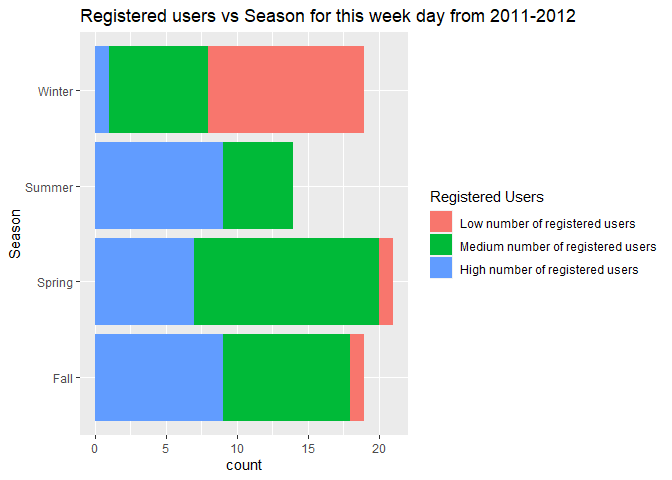
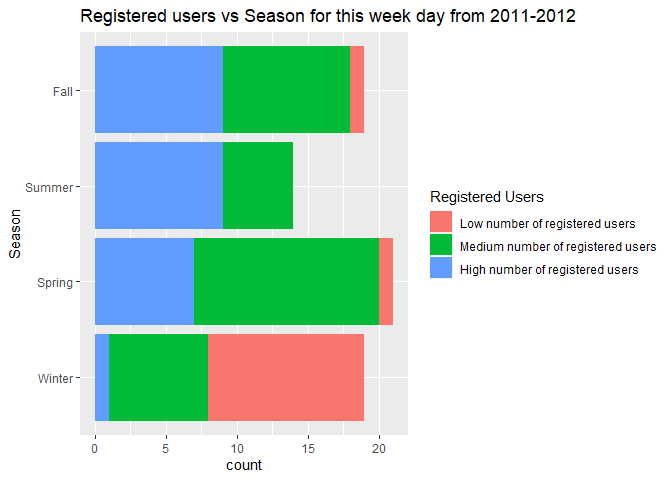
commit to pull main version

diff --git a/Monday.md b/Monday.md
@@ -2,21 +2,25 @@ Monday Analysis
 ================
 7/4/2021
 
-  - [Packages required to load and analyse the
+-   [Packages required to load and analyse the
     data](#packages-required-to-load-and-analyse-the-data)
-  - [MON Report](#mon-report)
-      - [Introduction](#introduction)
-      - [Data preparation](#data-preparation)
-      - [Train/Test split](#traintest-split)
-      - [Data Summarizations and
+-   [MON Report](#mon-report)
+    -   [Introduction](#introduction)
+    -   [Data preparation](#data-preparation)
+    -   [Train/Test split](#traintest-split)
+    -   [Data Summarizations and
         discussions](#data-summarizations-and-discussions)
-          - [Overall Count](#overall-count)
-          - [Weather Condition](#weather-condition)
-          - [Seasons](#seasons)
-          - [Temperature and Feeling
+        -   [Overall Count (Jiashu, please add your summary
+            tables)](#overall-count-jiashu-please-add-your-summary-tables)
+        -   [Weather Condition](#weather-condition)
+        -   [Seasons](#seasons)
+        -   [Temperature and Feeling
             Temperature](#temperature-and-feeling-temperature)
-          - [Humidity](#humidity)
-          - [Wind Speed](#wind-speed)
+        -   [Humidity](#humidity)
+        -   [Wind Speed](#wind-speed)
+    -   [Modeling](#modeling)
+        -   [Linear Regression Model](#linear-regression-model)
+        -   [Ensemble Tree Model](#ensemble-tree-model)
 
 ``` r
 knitr::opts_chunk$set(fig.path='Figs/')
@@ -78,35 +82,6 @@ Reading in the data using a relative path
 day_data  <-  read_csv("day.csv")
 ```
 
-Converting the year, season, and weather situation variables:
-
-``` r
-#categorizing the season variable as factor
-day_data <- mutate(day_data, Season = 
-                  ifelse(season == 1, "Winter",
-                  ifelse(season == 2, "Spring",
-                  ifelse(season == 3, "Summer",
-                  ifelse(season == 4, "Fall", "")))))
-day_data$Season <- factor(day_data$Season, levels=c("Winter","Spring", "Summer","Fall"))
-
-#categorizing the year variable as factor
-day_data <- mutate(day_data, Year = 
-                  ifelse(yr == 0, "2011",
-                  ifelse(yr == 1, "2012", "")))
-day_data$Year <- factor(day_data$Year, levels=c("2011","2012"))
-
-#categorizing the weathersit variable as factor
-day_data <- mutate(day_data, weather_situation = 
-                  ifelse(weathersit == 1, "Clear Weather",
-                  ifelse(weathersit == 2, "Misty/Cloudy Weather",
-                  ifelse(weathersit == 3, "Light Snow/Rain/Thunderstorm Weather",
-                  ifelse(weathersit == 4, "Heavy Rain/Snow/Fog/Icy Weather", "")))))
-day_data$weather_situation <- factor(day_data$weather_situation, levels=c("Clear Weather","Misty/Cloudy Weather", "Light Snow/Rain/Thunderstorm Weather","Heavy Rain/Snow/Fog/Icy Weather"))
-
-#reordering the day_data and renaming mth, cnt and hum
-day_data <- day_data %>% select(-c("instant","season","yr", "weathersit")) %>% rename(month = mnth,count = cnt,humidity = hum)
-```
-
 Converting the weekday variable to a factor containing the 7 days of the
 week:
 
@@ -114,6 +89,39 @@ week:
 day_as_fac_data <- day_data %>%
     mutate(week_day = wday(weekday +1,label=TRUE,locale="English_United States")) 
 day_as_char_data <- day_as_fac_data %>% mutate_if(is.factor, as.character)
+```
+
+Converting the year, season, and weather situation variables:
+
+``` r
+#categorizing the season variable as factor
+day_as_char_data <- mutate(day_as_char_data, Season = 
+                  ifelse(season == 1, "Winter",
+                  ifelse(season == 2, "Spring",
+                  ifelse(season == 3, "Summer",
+                  ifelse(season == 4, "Fall", "")))))
+day_as_char_data$Season <- factor(day_as_char_data$Season, levels=c("Winter","Spring", "Summer","Fall"))
+
+#categorizing the year variable as factor
+day_as_char_data <- mutate(day_as_char_data, Year = 
+                  ifelse(yr == 0, "2011",
+                  ifelse(yr == 1, "2012", "")))
+day_as_char_data$Year <- factor(day_as_char_data$Year, levels=c("2011","2012"))
+
+#categorizing the weathersit variable as factor
+day_as_char_data <- mutate(day_as_char_data, weather_situation = 
+                  ifelse(weathersit == 1, "Clear Weather",
+                  ifelse(weathersit == 2, "Misty/Cloudy Weather",
+                  ifelse(weathersit == 3, "Light Snow/Rain/Thunderstorm Weather",
+                  ifelse(weathersit == 4, "Heavy Rain/Snow/Fog/Icy Weather", "")))))
+day_as_char_data$weather_situation <- factor(day_as_char_data$weather_situation, levels=c("Clear Weather","Misty/Cloudy Weather", "Light Snow/Rain/Thunderstorm Weather","Heavy Rain/Snow/Fog/Icy Weather"))
+
+
+day_as_char_data$holiday <- as.factor(day_as_char_data$holiday)
+day_as_char_data$workingday <- as.factor(day_as_char_data$workingday)
+
+#reordering the day_data and renaming mth, cnt and hum
+day_as_char_data <- day_as_char_data %>% select(-c("instant","season")) %>% rename(month = mnth,count = cnt,humidity = hum)
 ```
 
 Setting up the dataset for later automation. The code will be automated
@@ -139,7 +147,7 @@ day_data_Test <- data_weekday[test, ]
 
 ## Data Summarizations and discussions
 
-### Overall Count
+### Overall Count (Jiashu, please add your summary tables)
 
 The averages for selected variables for each year is shown below
 
@@ -157,10 +165,10 @@ grouped_mean  <-  day_data_Train %>%
 kable(grouped_mean, caption="Averages of selected variables for each year")
 ```
 
-| Year |  n | avg\_registered\_user | avg\_casual\_user | avg\_windspeed | avg\_humidity |
-| :--- | -: | --------------------: | ----------------: | -------------: | ------------: |
-| 2011 | 35 |                  2703 |               519 |          12.52 |         63.69 |
-| 2012 | 38 |                  4187 |               702 |          13.52 |         63.73 |
+| Year |   n | avg\_registered\_user | avg\_casual\_user | avg\_windspeed | avg\_humidity |
+|:-----|----:|----------------------:|------------------:|---------------:|--------------:|
+| 2011 |  35 |                  2703 |               519 |          12.52 |         63.69 |
+| 2012 |  38 |                  4187 |               702 |          13.52 |         63.73 |
 
 Averages of selected variables for each year
 
@@ -181,28 +189,27 @@ grouped_sd  <-  day_data_Train %>%
 kable(grouped_sd, caption="Standard deviation of selected variables for each year")
 ```
 
-| Year |  n | avg\_registered\_user | avg\_casual\_user | avg\_windspeed | avg\_humidity |
-| :--- | -: | --------------------: | ----------------: | -------------: | ------------: |
-| 2011 | 35 |                  1005 |               352 |          5.912 |        13.925 |
-| 2012 | 38 |                  1586 |               531 |          5.620 |        14.234 |
+| Year |   n | avg\_registered\_user | avg\_casual\_user | avg\_windspeed | avg\_humidity |
+|:-----|----:|----------------------:|------------------:|---------------:|--------------:|
+| 2011 |  35 |                  1005 |               352 |          5.912 |        13.925 |
+| 2012 |  38 |                  1586 |               531 |          5.620 |        14.234 |
 
 Standard deviation of selected variables for each year
 
 ### Weather Condition
 
 The table for weather condition vs. year for this particular day is
-shown
-below:
+shown below:
 
 ``` r
 year_season_table <- table(day_data_Train$Year, day_data_Train$weather_situation )
 kable(year_season_table, caption="Table of Year vs. Weather situation")
 ```
 
-|      | Clear Weather | Light Snow/Rain/Thunderstorm Weather | Misty/Cloudy Weather |
-| ---- | ------------: | -----------------------------------: | -------------------: |
-| 2011 |            24 |                                    1 |                   10 |
-| 2012 |            21 |                                    1 |                   16 |
+|      | Clear Weather | Misty/Cloudy Weather | Light Snow/Rain/Thunderstorm Weather | Heavy Rain/Snow/Fog/Icy Weather |
+|:-----|--------------:|---------------------:|-------------------------------------:|--------------------------------:|
+| 2011 |            24 |                   10 |                                    1 |                               0 |
+| 2012 |            21 |                   16 |                                    1 |                               0 |
 
 Table of Year vs. Weather situation
 
@@ -253,19 +260,18 @@ day_data_Train$registered_format <- factor(day_data_Train$registered_format, lev
 ```
 
 The number of casual users vs season for 2011-2012 are shown in the
-table and bar chart
-below:
+table and bar chart below:
 
 ``` r
 casual_users_table <- table(day_data_Train$casual_format, day_data_Train$Season )
 kable(casual_users_table, caption="Casual users vs Season for 2011-2012")
 ```
 
-|                               | Fall | Spring | Summer | Winter |
-| ----------------------------- | ---: | -----: | -----: | -----: |
-| Low number of casual users    |   18 |     15 |      8 |     19 |
-| Medium number of casual users |    1 |      5 |      6 |      0 |
-| High number of casual users   |    0 |      1 |      0 |      0 |
+|                               | Winter | Spring | Summer | Fall |
+|:------------------------------|-------:|-------:|-------:|-----:|
+| Low number of casual users    |     19 |     15 |      8 |   18 |
+| Medium number of casual users |      0 |      5 |      6 |    1 |
+| High number of casual users   |      0 |      1 |      0 |    0 |
 
 Casual users vs Season for 2011-2012
 
@@ -280,19 +286,18 @@ ggplot(data=day_data_Train, aes(x=day_data_Train$Season))+
 ![](Figs/unnamed-chunk-12-1.png)<!-- -->
 
 The same information for number of registered users is shown in the
-table and bar chart
-below:
+table and bar chart below:
 
 ``` r
 registered_users_table <- table(day_data_Train$registered_format, day_data_Train$Season )
 kable(registered_users_table, caption="Registered users vs Season for 2011-2012")
 ```
 
-|                                   | Fall | Spring | Summer | Winter |
-| --------------------------------- | ---: | -----: | -----: | -----: |
-| Low number of registered users    |    1 |      1 |      0 |     11 |
-| Medium number of registered users |    9 |     13 |      5 |      7 |
-| High number of registered users   |    9 |      7 |      9 |      1 |
+|                                   | Winter | Spring | Summer | Fall |
+|:----------------------------------|-------:|-------:|-------:|-----:|
+| Low number of registered users    |     11 |      1 |      0 |    1 |
+| Medium number of registered users |      7 |     13 |      5 |    9 |
+| High number of registered users   |      1 |      7 |      9 |    9 |
 
 Registered users vs Season for 2011-2012
 
@@ -318,9 +323,10 @@ ggplot(data=day_data_Train, aes(x=Season, y= count))+
   labs(x="Season", y="Total number of rentals", fill="Season", title = "Boxplot of Total number of rentals by Season for this week day")
 ```
 
-![](Figs/unnamed-chunk-14-1.png)<!-- --> This plot will let us know if
-there is a seasonal effect on number of rentals for this particular week
-day.
+![](Figs/unnamed-chunk-14-1.png)<!-- -->
+
+This plot will let us know if there is a seasonal effect on number of
+rentals for this particular week day.
 
 ### Temperature and Feeling Temperature
 
@@ -337,14 +343,14 @@ ggplot(tem_plot) + geom_line(aes(x=dteday,y=value,color=temp)) + facet_wrap(~Yea
 
 ![](Figs/unnamed-chunk-15-1.png)<!-- -->
 
-Basically, When the ture temperature is high, the body temperature will
-be lower; when the actual temperature is very low, the opposite is true.
+Basically, When the temperature is high, the body temperature will be
+lower; when the actual temperature is very low, the opposite is true.
 
 There’s no difference between these 2 variables, so we decided to drop
 `feeling temperature` due to the consideration of collinearity. Besides,
-the variance of ture `temperature` is a little bit larger than `feeling
-temperature`, so we expect `temperature` to be more sensitive when
-fitting the model.
+the variance of `temperature` is a little bit larger than
+`feeling temperature`, so we expect `temperature` to be more sensitive
+when fitting the model.
 
 ### Humidity
 
@@ -363,8 +369,7 @@ ggplot(data = hum_plot, aes(x=humidity, y=count, group=regist)) + geom_point(aes
 
 We can inspect the relationship of users with humidity using this plot
 roughly. The points are nearly evenly distributed, which means humidity
-can seldom affect the users if we control all other
-variables.
+can seldom affect the users if we control all other variables.
 
 ### Wind Speed
 
@@ -392,3 +397,106 @@ ggplot(data = wind_plot, aes(x=windspeed, y=count, group=regist)) + geom_point(a
 
 We can inspect the relationship of users with windspeed using this plot
 roughly.
+
+## Modeling
+
+### Linear Regression Model
+
+Linear regression modeling is one of the supervised learning methods
+where the output is known, and the goal is to establish a function that
+best approximates the relationship between desired outputs and the
+provided sample data. Specifically, linear regression accomplishes this
+by learning a model that best fits the linear relationship between the
+predictor and response variables.The model is fit by minimizing the sum
+of squared residuals (difference between the observed and predicted
+responses). Linear regression models fall into two categories: Simple
+Linear Regression and Multiple Linear Regression.
+
+Simple Linear Regression Model is one where there is only one
+independent variable (or predictor) and the goal is to learn the linear
+relationship between it and the response variable. Multiple Linear
+Regression (MLR) has more than one predictor, and the although
+relationship between predictors and response remains linear in terms of
+the model parameters, the MLR model could contain interaction, quadratic
+and polynomial terms.
+
+Underlying assumptions for the linear regression model are  
+\* Linearity: The model is linear in model parameters (betas) (Can be
+checked using histogram or Q-Q plots)  
+\* Normality: The predictor and response variables are multivariate
+normal  
+\* Multicollinearity: There is little to no multicollinearity among the
+predictor variables. (can be checked using Variance Inflation Factor)  
+\* Homoscedasticity: Residuals are randomly distributed across the
+regression line (Can be checked using the Residual vs. Fitted value
+scatter plot. The plot must have to discernable pattern)  
+\* Autocorrelation: Residuals must be independent of each other (Can be
+checked using Durbin-Watson’s test).
+
+#### First linear regression Model
+
+##### Subsetting the predictors that should best predict the total count of users
+
+To select the candidate models, I first subset the dataset to include
+only variables of interest for MLR.
+
+``` r
+day_data_Train_sub <- day_data_Train %>% select(-c(dteday,weekday,registered,casual,week_day,Season,Year,weather_situation,casual_format,registered_format)) 
+day_data_Test_sub <- day_data_Test %>% select(-c(dteday,weekday,registered,casual,week_day,Season,Year,weather_situation))   #The test data is subsetted as well
+```
+
+The linear model selected for later models comparison is:
+
+``` r
+Lin_reg_train_1 <- lm(count ~ ., data = day_data_Train_sub)
+```
+
+``` r
+#Predict the response variable using the test data to evaluate model performance
+Lin_reg_1_predict <- predict(Lin_reg_train_1, newdata = day_data_Test_sub)
+
+#Get the missclassification rate 
+Lin_reg_1_predict_tbl <- table(Lin_reg_1_predict, day_data_Test_sub$count)
+Lin_reg_1_misclass <- 1-(sum(diag(Lin_reg_1_predict_tbl))/sum(Lin_reg_1_predict_tbl))
+```
+
+#### Second linear regression Model (Jiashu, please add your linear model here)
+
+### Ensemble Tree Model
+
+#### First Ensemble Tree Model: Random Forest Model
+
+I’ll be using a Random Forest Model
+
+``` r
+trctrl <- trainControl(method = "repeatedcv", number=10, repeats=3)
+rf_grid <- expand.grid(mtry = 1:11)
+rf_train <- train(count ~., 
+                 data= day_data_Train_sub, 
+                 method='rf', 
+                 trControl=trctrl,
+                 tuneGrid = rf_grid,
+                 preProcess=c("center", "scale"))
+
+plot(rf_train)
+```
+
+![](Figs/unnamed-chunk-22-1.png)<!-- -->
+
+``` r
+#The mtry value that gives the highest accuracy is:
+rf_train$bestTune
+```
+
+    ##   mtry
+    ## 5    5
+
+``` r
+#Predict the response variable using the test data to evaluate model performance
+rf_predict <- predict(rf_train, newdata = day_data_Test_sub)
+
+
+#Get the missclassification rate 
+rf_predict_tbl <- table(rf_predict, day_data_Test_sub$count)
+rf_misclass <- 1-(sum(diag(rf_predict_tbl))/sum(rf_predict_tbl))
+```
